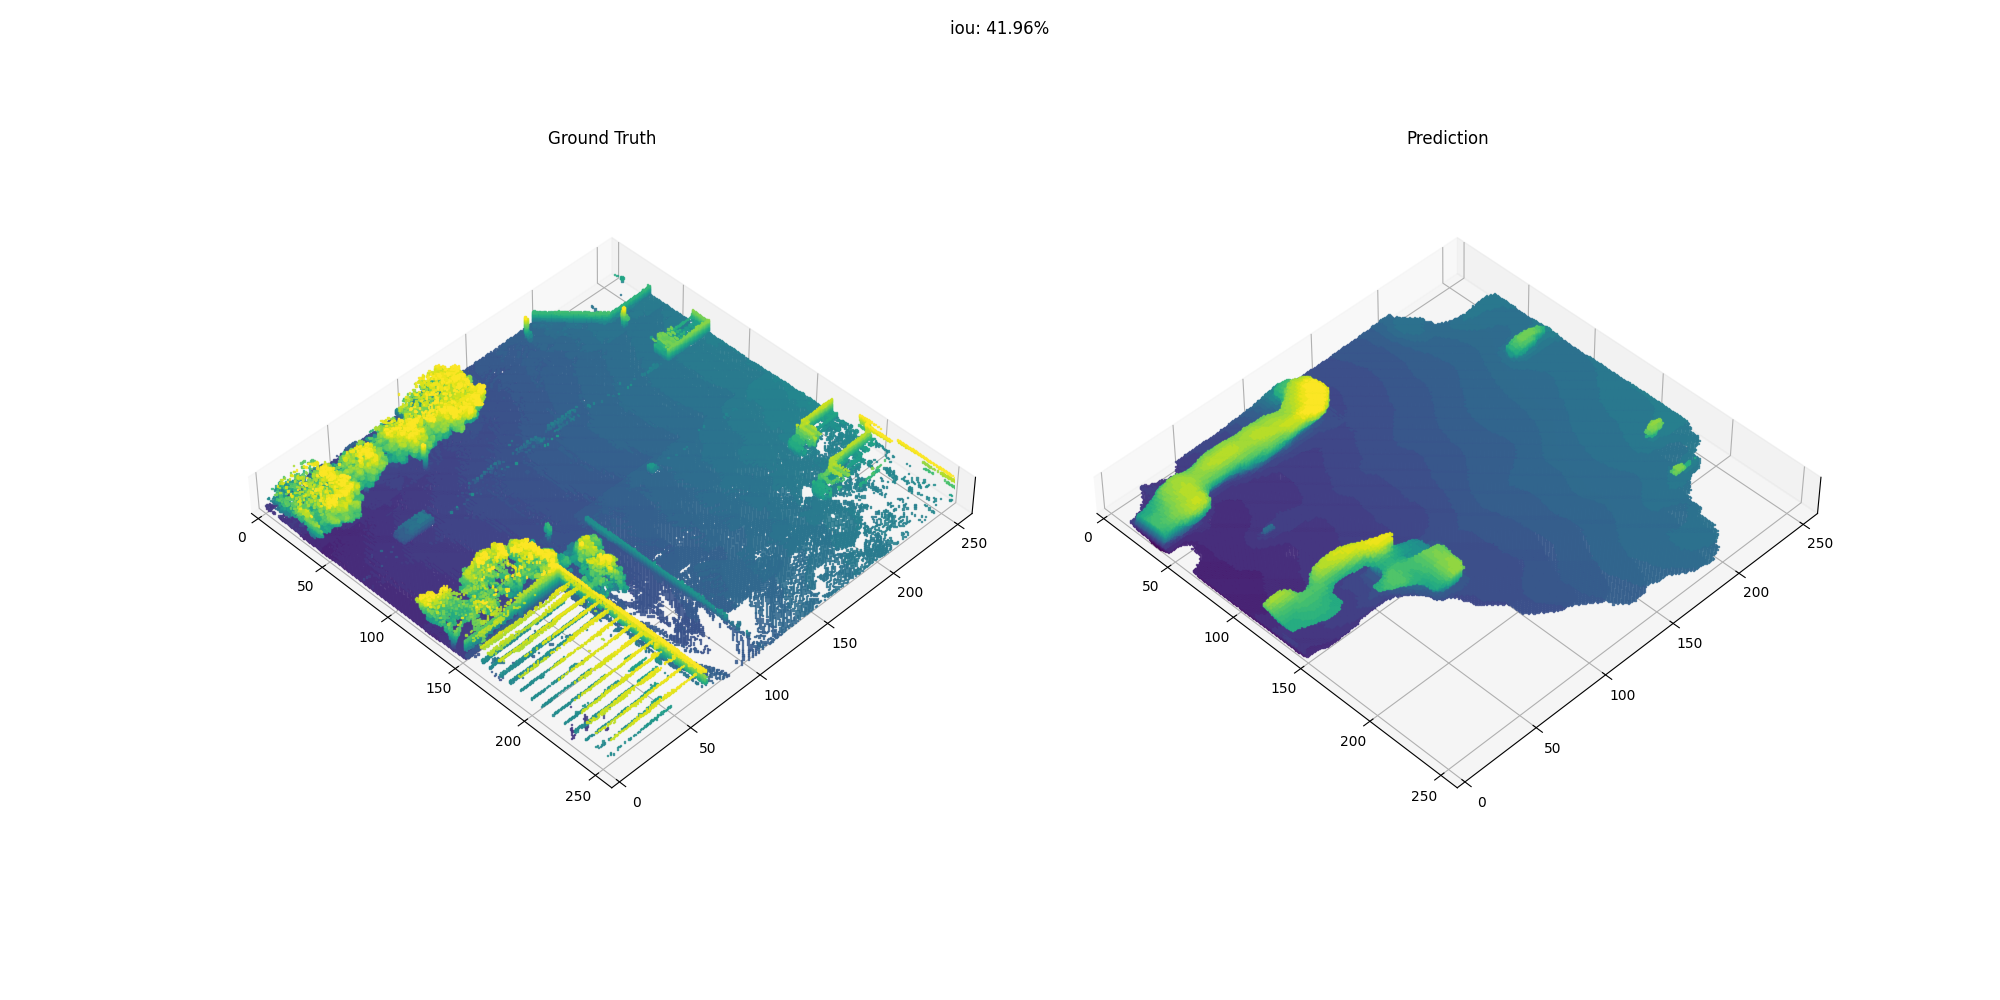
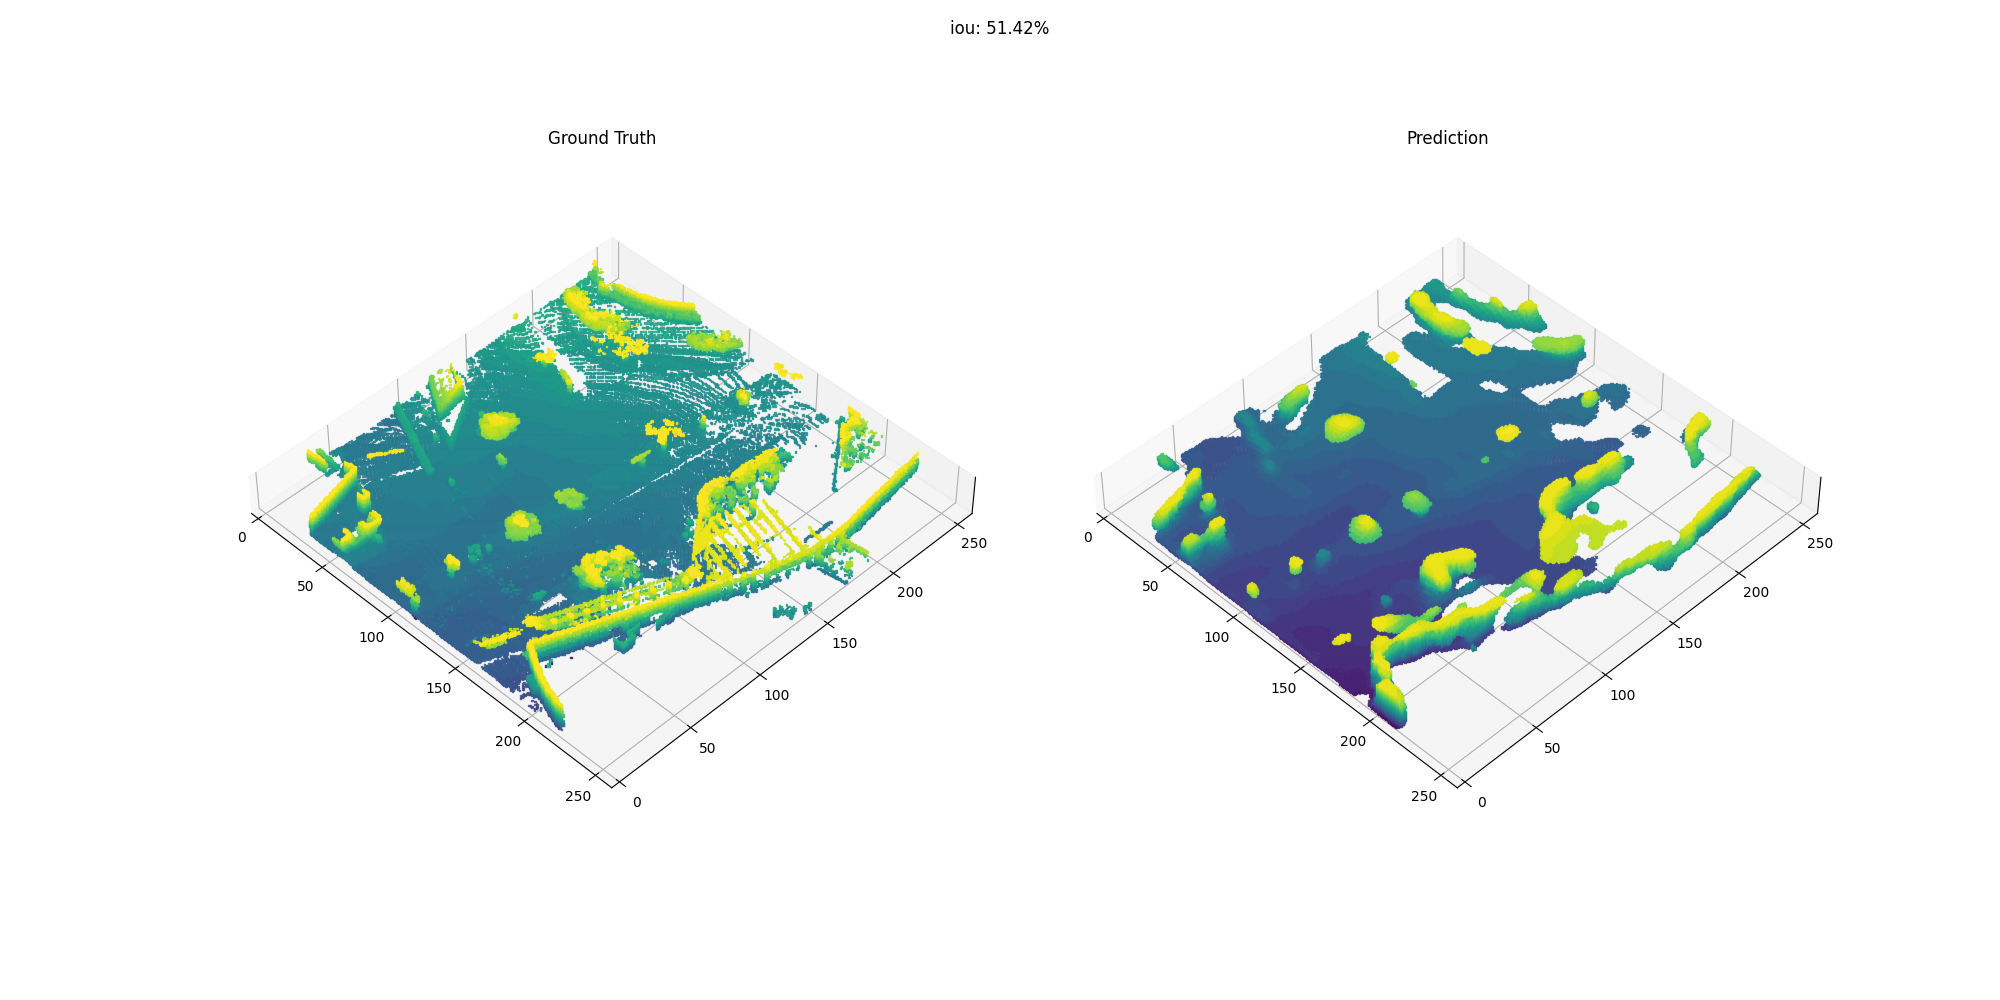
update

Changed region(s): [[0.124, 0.248, 0.496, 0.744], [0.558, 0.279, 0.899, 0.744], [0.496, 0.0, 0.527, 0.031]]

diff --git a/occupancy/pipelines/autoencoderkl_3d.py b/occupancy/pipelines/autoencoderkl_3d.py
@@ -226,7 +226,7 @@ class AutoEncoderKL3dOutput:
 class AutoEncoderKL3dConfig:
     in_channels: int = 1
     out_channels: int = 1
-    latent_dim: int = 16
+    latent_dim: int = 32
     base_channels: int = 64
     multiplier: int = 2
     num_layers: int = 4
